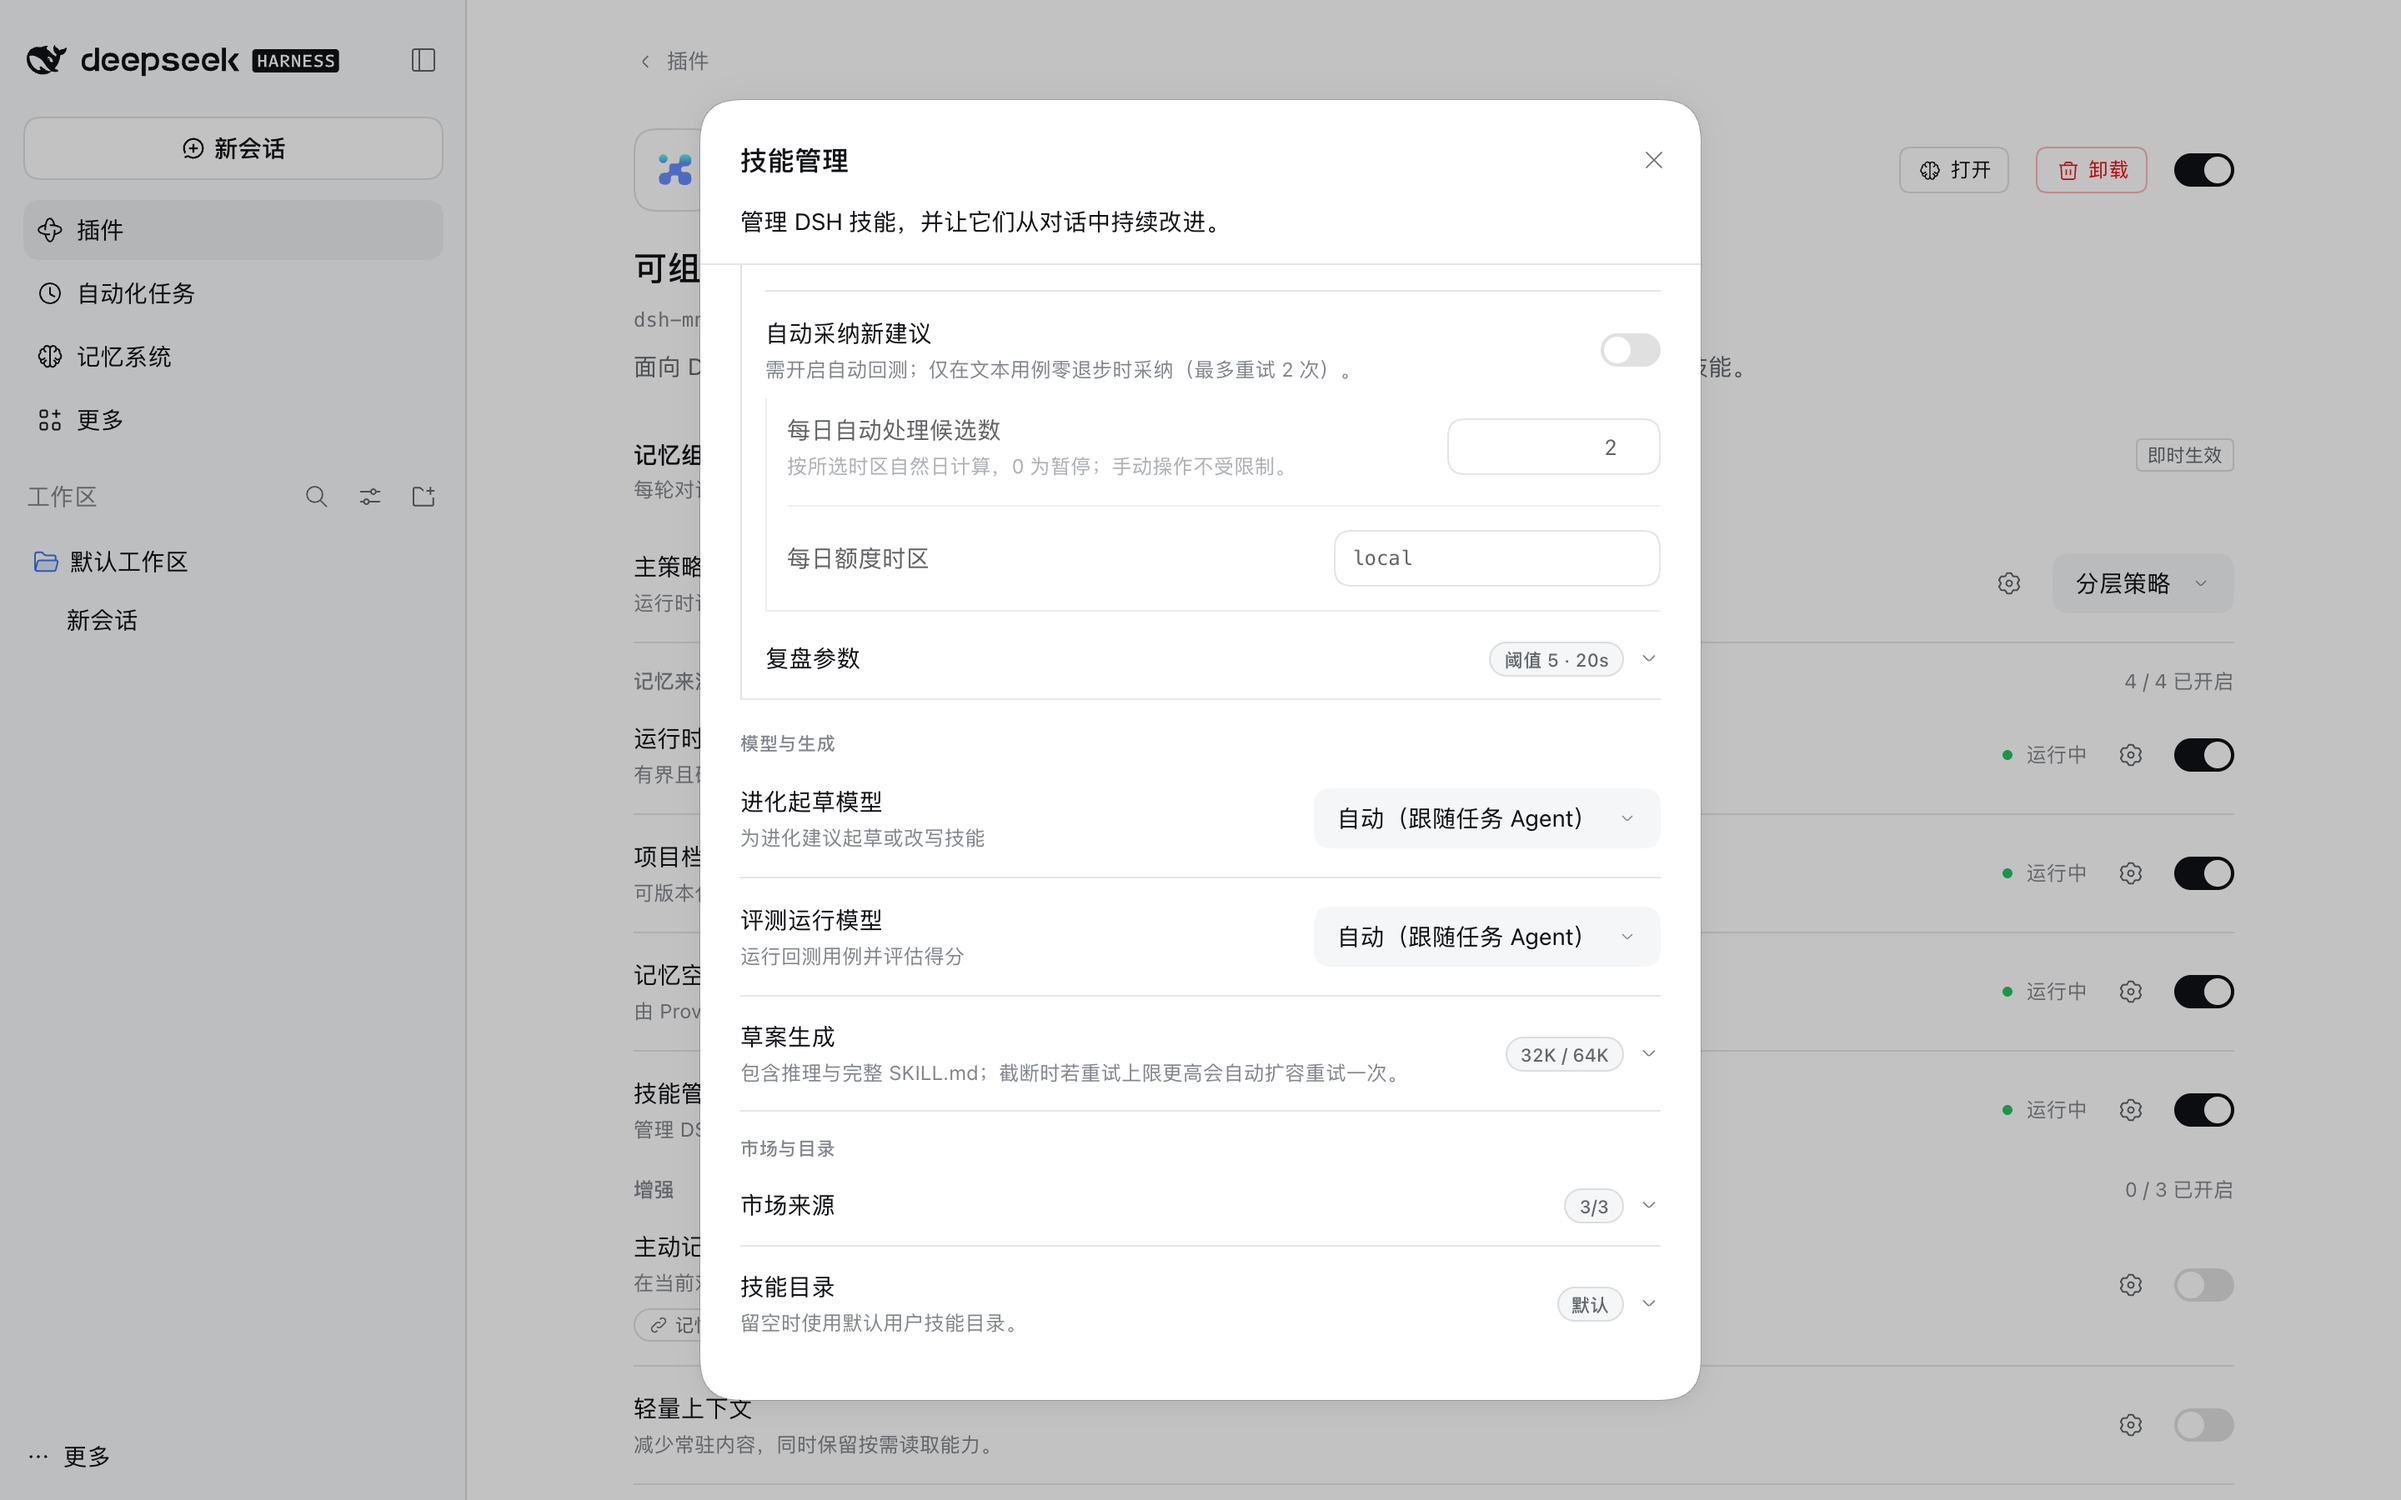
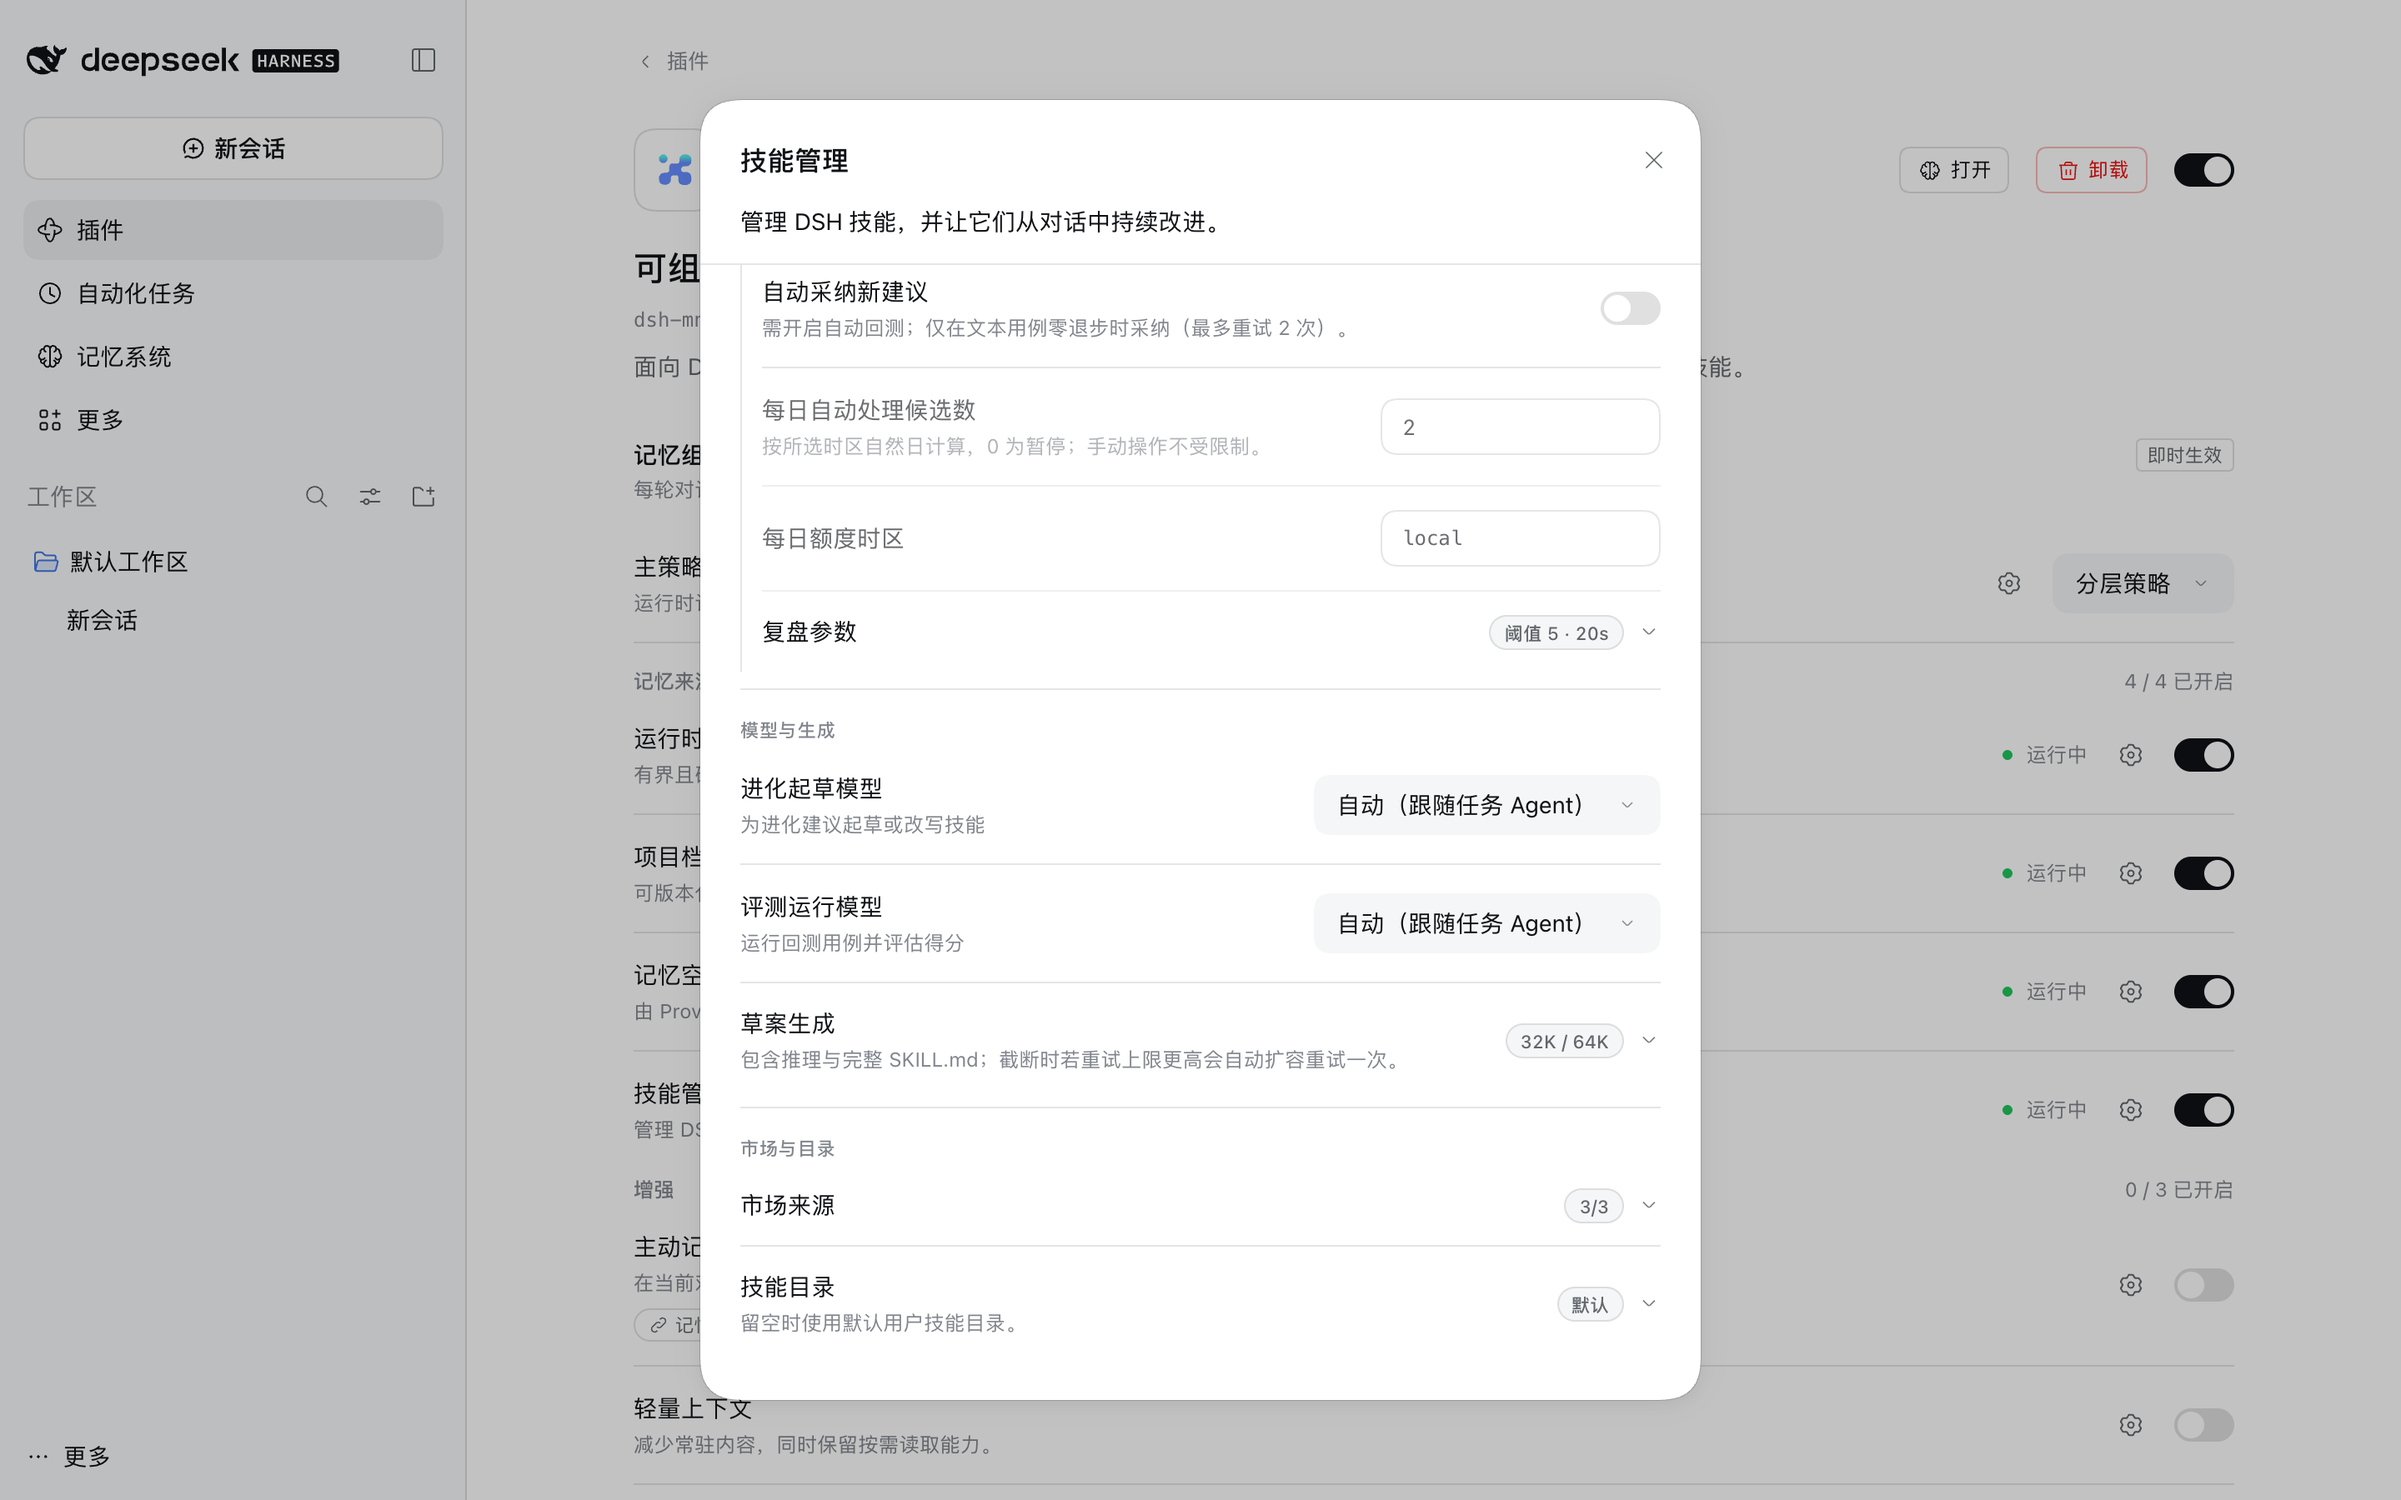
style(settings): flatten nested rails and align quota and number inputs

diff --git a/src/client/MnemonSettingsCard.module.css b/src/client/MnemonSettingsCard.module.css
@@ -333,11 +333,24 @@
   line-height: 20px;
   transition: border-color 120ms ease;
 }
-.numberInput { width: 128px; text-align: right; font-variant-numeric: tabular-nums; }
+.numberInput {
+  width: 128px;
+  text-align: right;
+  font-variant-numeric: tabular-nums;
+  -moz-appearance: textfield;
+}
+.numberInput::-webkit-inner-spin-button,
+.numberInput::-webkit-outer-spin-button { -webkit-appearance: none; margin: 0; }
 .compactTextInput {
-  width: 196px;
+  width: 168px;
+  padding: 0 12px;
   font-family: var(--dsw-font-mono, var(--ds-font-family-code, ui-monospace, "SFMono-Regular", Menlo, Consolas, monospace));
   font-size: 12px;
+  text-align: left;
+}
+.alignedNumberInput {
+  width: 168px;
+  padding: 0 12px;
   text-align: left;
 }
 .compactTextInput::placeholder { color: var(--dsw-alias-label-dimmed); font-family: var(--dsw-font-family); font-size: 12px; }
@@ -393,7 +406,10 @@
   line-height: 20px;
   text-align: right;
   font-variant-numeric: tabular-nums;
+  -moz-appearance: textfield;
 }
+.unitInput > input::-webkit-inner-spin-button,
+.unitInput > input::-webkit-outer-spin-button { -webkit-appearance: none; margin: 0; }
 .unitSuffix {
   flex: none;
   color: var(--dsw-alias-label-tertiary);
@@ -406,19 +422,17 @@
 
 /* Crisp subsection kicker inside component settings dialogs. */
 .settingsSubheading {
-  margin: 14px 0 2px;
+  margin: 6px 0 2px;
+  padding-top: 16px;
+  border-top: .5px solid var(--dsw-alias-border-l2);
   color: var(--dsw-alias-label-tertiary);
   font-size: 11px;
   font-weight: 500;
   line-height: 16px;
   letter-spacing: .02em;
 }
-.rows > .settingsSubheading:first-child { margin-top: 0; }
-.rows > .settingRow:has(+ .settingsSubheading),
-.rows > .toggleRow:has(+ .settingsSubheading),
-.rows > .advanced:has(+ .settingsSubheading),
-.rows > .evolutionGroup:has(+ .settingsSubheading),
-.rows > .skillsSubgroup:has(+ .settingsSubheading) { border-bottom-color: var(--dsw-alias-border-l2); }
+.rows > .settingsSubheading:first-child { margin-top: 0; padding-top: 0; border-top: 0; }
+.rows > :has(+ .settingsSubheading) { border-bottom: 0; }
 
 /* A follow-up under the row above it, such as a chosen task model route. */
 .rowDetail { display: flex; min-width: 0; flex-direction: column; gap: 10px; padding: 0 0 14px; border-bottom: .5px solid var(--dsw-alias-border-l2); }
@@ -482,33 +496,27 @@
   display: flex;
   min-width: 0;
   flex-direction: column;
-  margin: 0 0 4px;
-  padding-left: 14px;
-  border-left: 1.5px solid var(--dsw-alias-border-l3);
-  border-bottom: .5px solid var(--dsw-alias-border-l2);
+  margin: 2px 0 4px;
+  padding-left: 12px;
+  border-left: 1px solid var(--dsw-alias-border-l2);
   animation: advanced-expand 180ms cubic-bezier(.22, 1, .36, 1) both;
 }
 .toggleRow:has(+ .evolutionGroup) { border-bottom: 0; padding-bottom: 8px; }
-.evolutionGroup > :first-child { padding-top: 10px; }
+.evolutionGroup > :first-child { padding-top: 8px; }
 .evolutionGroup > :last-child { border-bottom: 0; }
 
-/* Secondary sub-controls visually tied to a preceding toggle (e.g. daily auto-adopt quota). */
+/* Flush dependent controls under a toggle (e.g. daily auto-adopt quota) — no second nested rail. */
 .nestedBudgetGroup {
   display: flex;
   min-width: 0;
   flex-direction: column;
-  margin: 0 0 4px;
-  padding-left: 12px;
-  border-left: 1.5px solid var(--dsw-alias-border-l2);
-  border-bottom: .5px solid var(--dsw-alias-border-l2);
   transition: opacity 160ms ease;
 }
-.toggleRow:has(+ .nestedBudgetGroup) { border-bottom: 0; padding-bottom: 8px; }
-.nestedBudgetGroup[data-dimmed] { opacity: .66; }
+.nestedBudgetGroup[data-dimmed] { opacity: .62; }
 .nestedBudgetGroup[data-dimmed]:hover,
 .nestedBudgetGroup[data-dimmed]:focus-within { opacity: 1; }
-.nestedBudgetGroup > :first-child { padding-top: 8px; }
-.nestedBudgetGroup > :last-child { border-bottom: 0; }
+.nestedBudgetGroup > .settingRow:has(+ .panelActions) { border-bottom: 0; padding-bottom: 4px; }
+.nestedBudgetGroup > .panelActions { padding: 8px 0 12px; border-bottom: .5px solid var(--dsw-alias-border-l2); }
 
 .skillsSubgroup { display: flex; min-width: 0; flex-direction: column; gap: 0; padding: 0; border-bottom: .5px solid var(--dsw-alias-border-l2); }
 .rows > .skillsSubgroup:last-child { border-bottom: 0; padding-bottom: 4px; }
@@ -943,7 +951,8 @@ details[open] > summary .providerChevron { transform: rotate(180deg); }
   .providerState { max-width: 120px; overflow: hidden; text-overflow: ellipsis; }
   .numberInput,
   .unitInput { width: 104px; }
-  .compactTextInput { width: 156px; }
+  .compactTextInput,
+  .alignedNumberInput { width: 144px; }
   .memoryConfigFooter { align-items: stretch; flex-direction: column; }
   .memoryConfigFooter > div:last-child { width: 100%; }
   .memoryConfigFooter button { flex: 1; }

diff --git a/src/client/skills-settings.tsx b/src/client/skills-settings.tsx
@@ -552,7 +552,7 @@ export function SkillsSettings(props: {
         <ToggleRow id="mnemon-skills-auto-adopt" label={t('skills.autoAdopt')} hint={t('skills.autoAdoptHint')} checked={autoAdopt.value} disabled={disabled || !autoBacktest.value} onChange={autoAdopt.set} />
         <div className={css.nestedBudgetGroup} data-dimmed={!autoAdopt.value ? '' : undefined}>
           <SettingRow htmlFor={`${baseId}-adopt-limit`} title={t('skills.autoAdoptDailyLimit')} hint={t('skills.autoBudgetHint')}>
-            <input id={`${baseId}-adopt-limit`} className={css.numberInput} type="number" min={0} max={100} step={1} inputMode="numeric"
+            <input id={`${baseId}-adopt-limit`} className={`${css.numberInput} ${css.alignedNumberInput}`} type="number" min={0} max={100} step={1} inputMode="numeric"
               value={adoptionBudget.draft.limit} disabled={disabled || adoptionBudget.saving}
               aria-invalid={parameterValue({ min: 0, max: 100, integer: true }, adoptionBudget.draft.limit) === undefined}
               onChange={event => adoptionBudget.edit({ limit: event.target.value })} />
